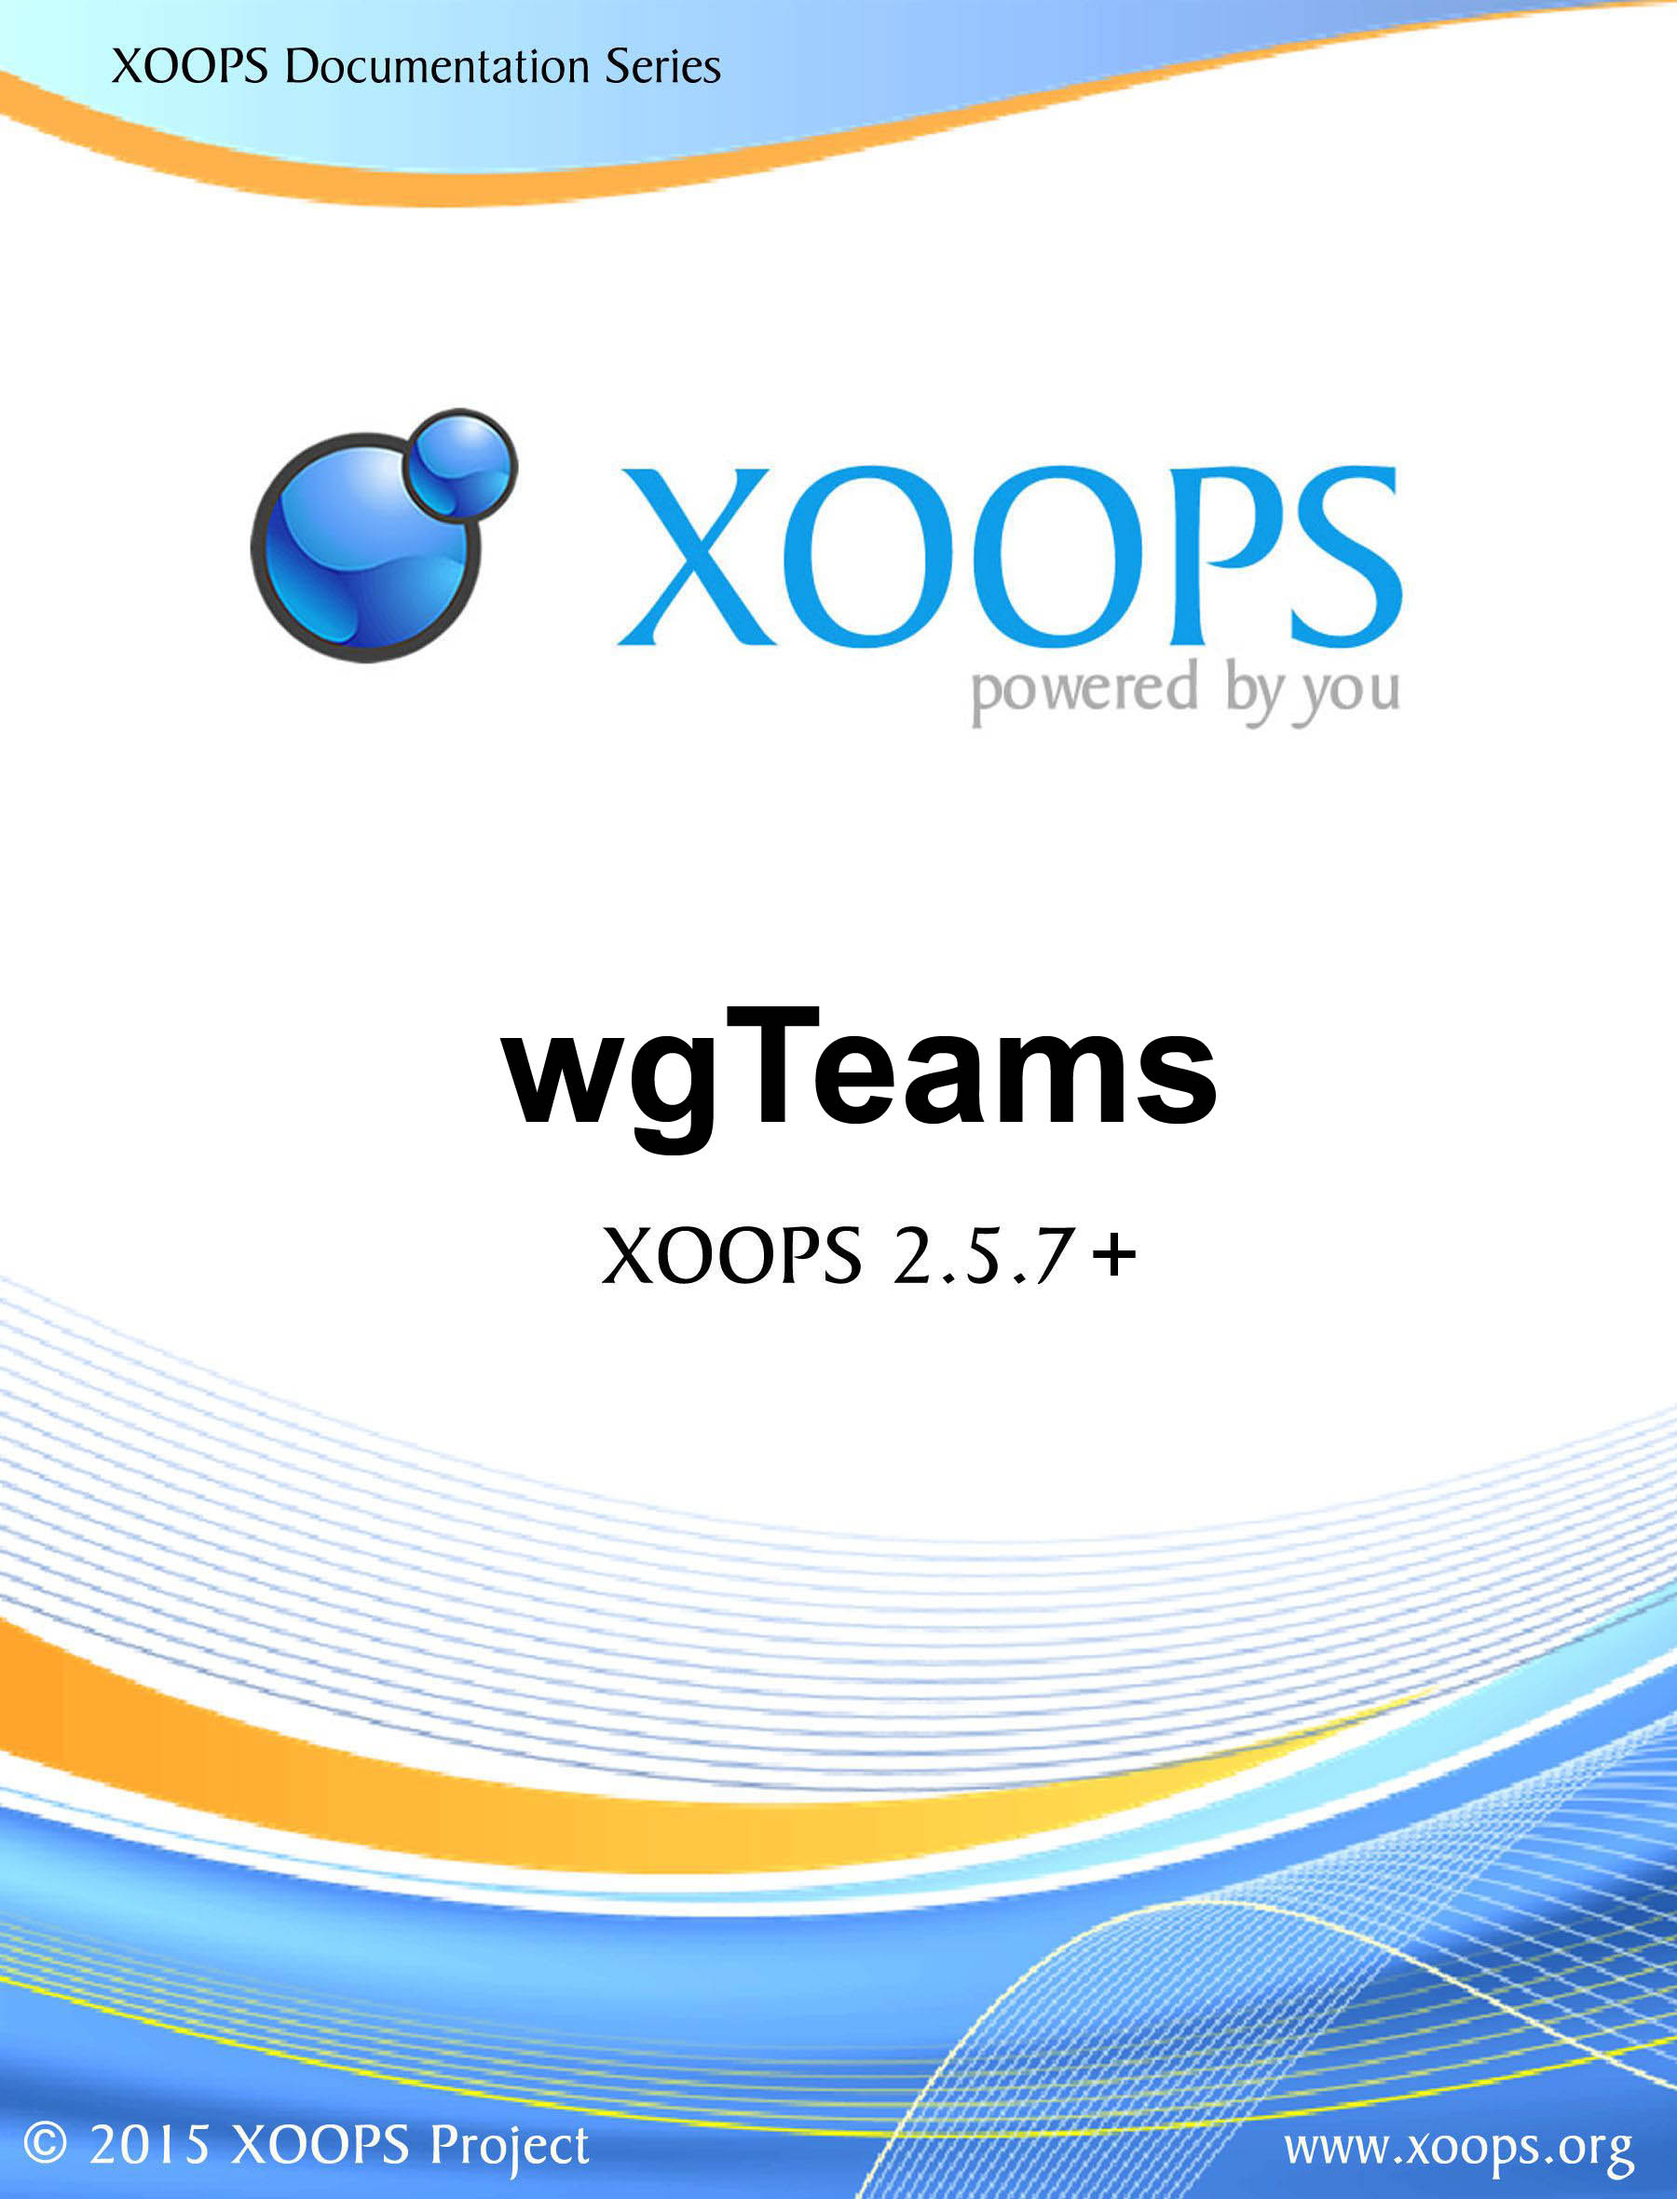
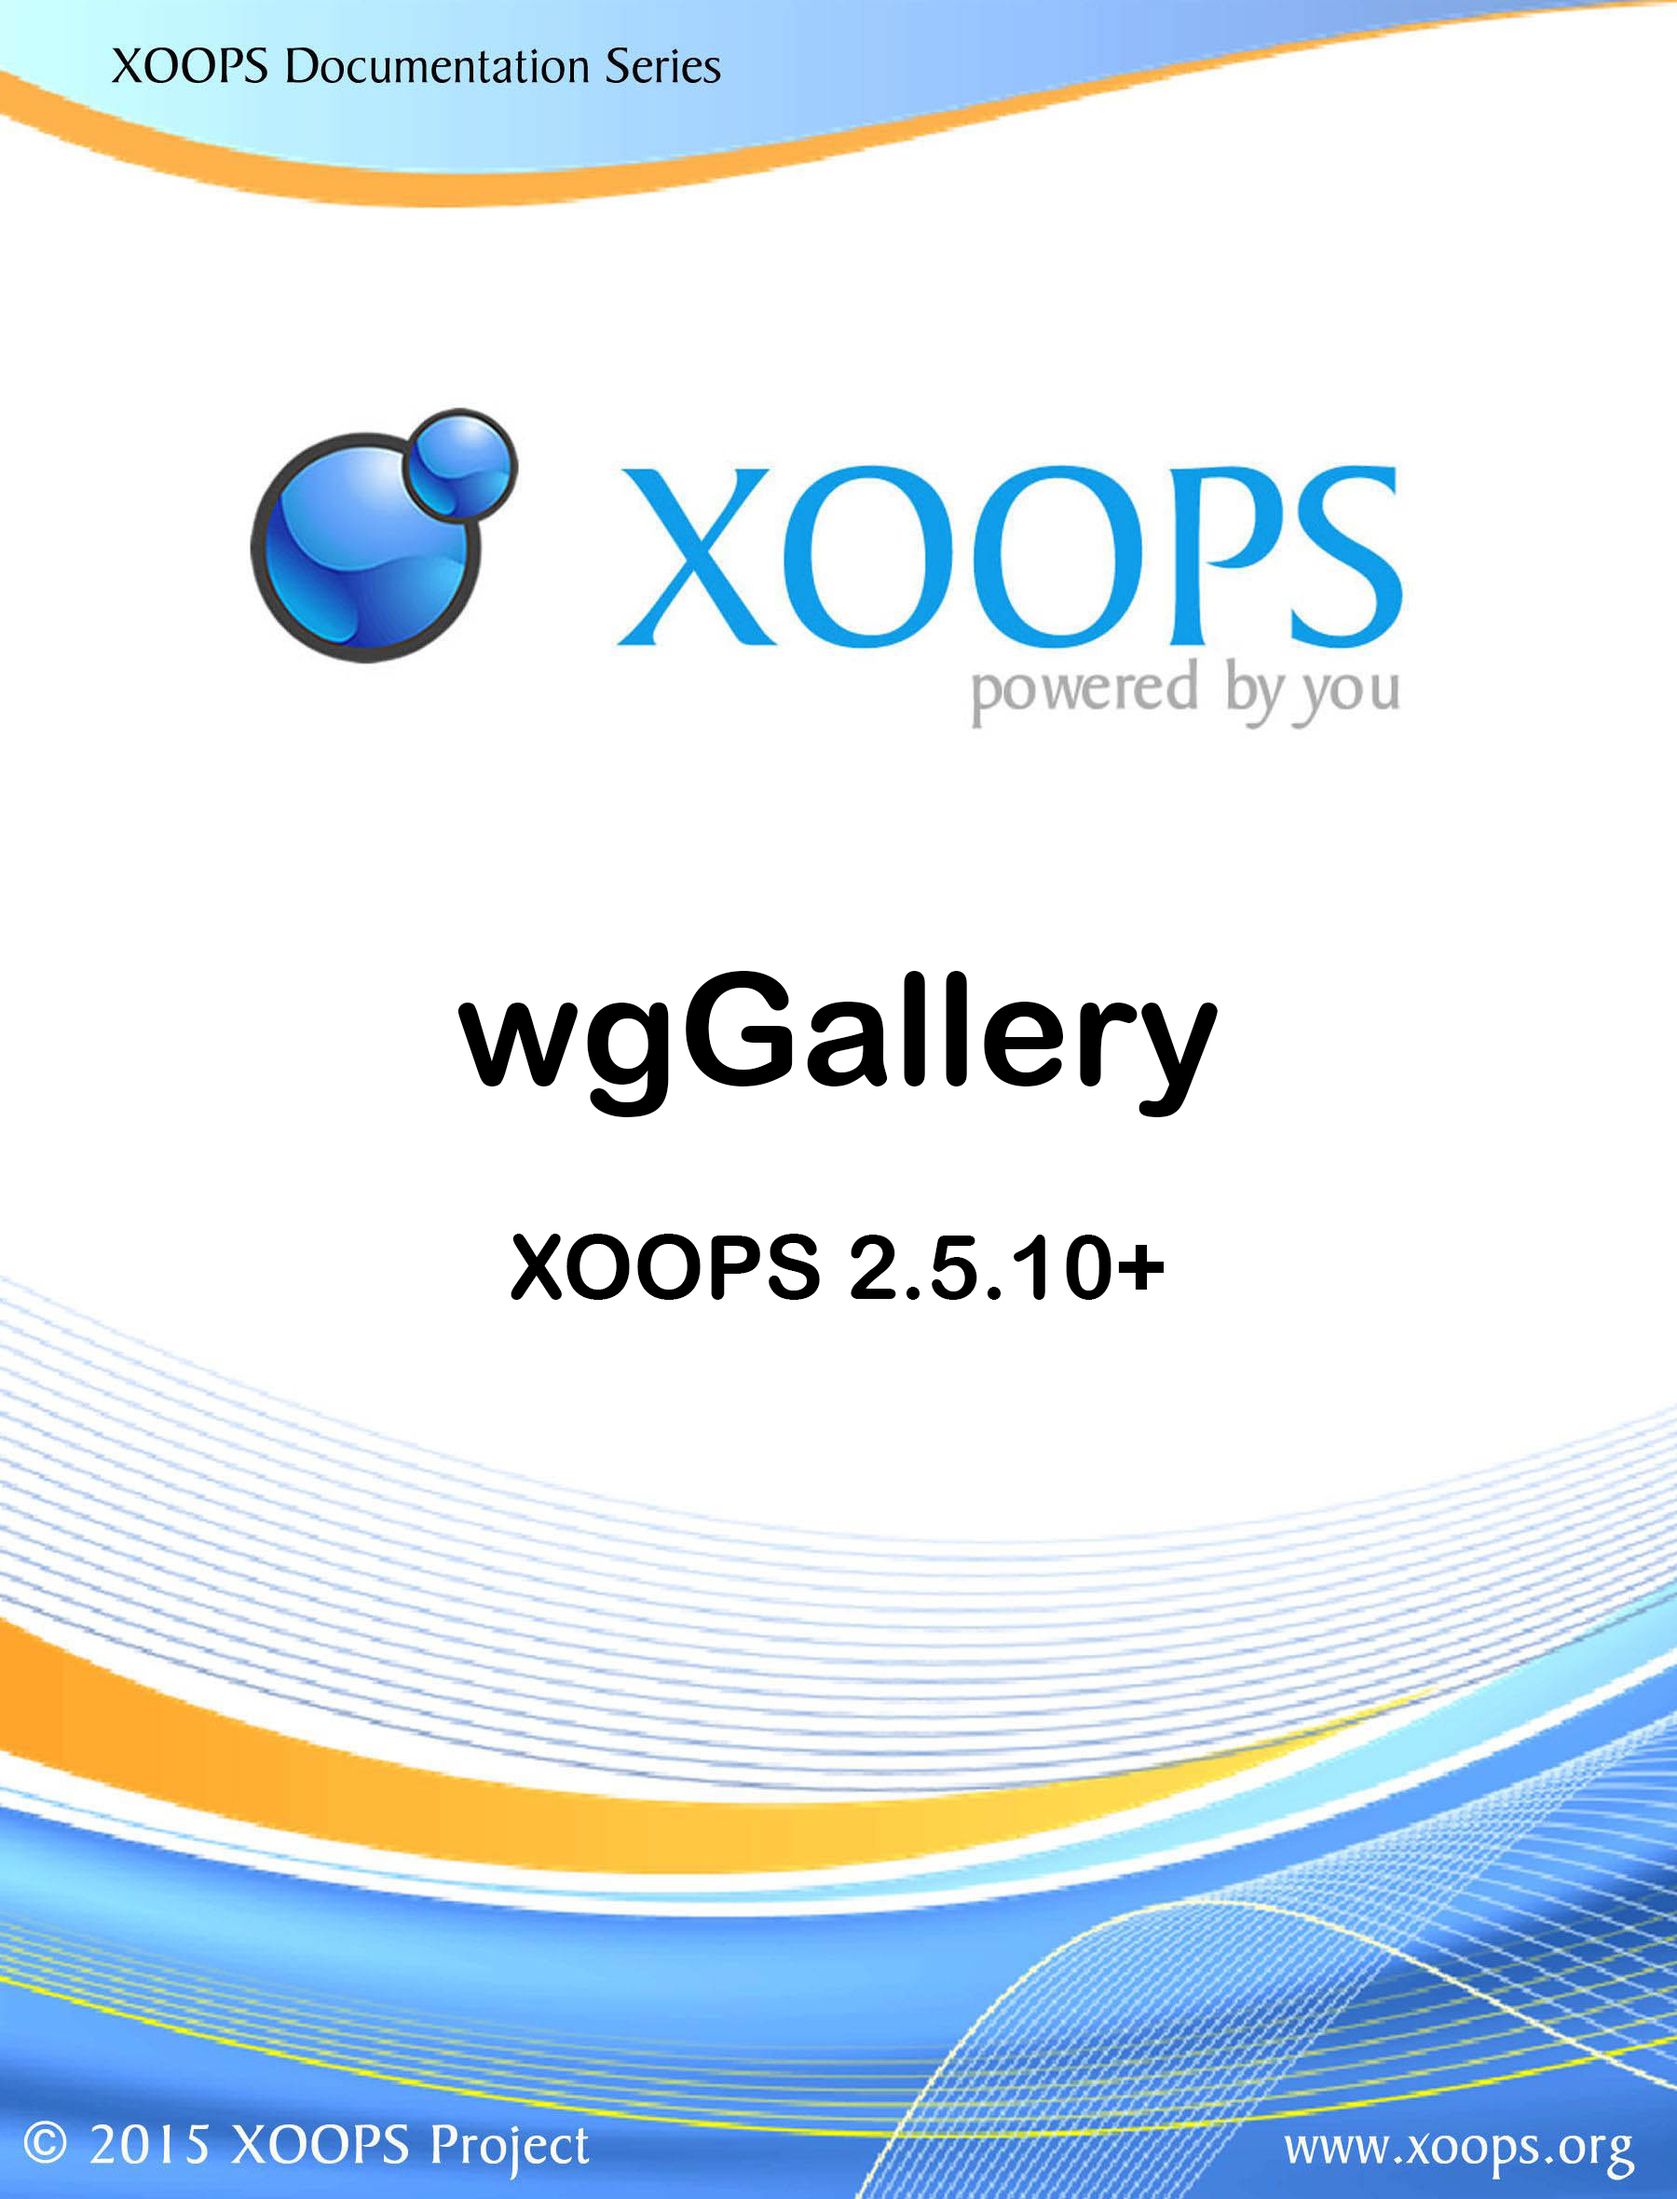
updates

Changed region(s): [[0.28, 0.4331, 0.7467, 0.5258], [0.3111, 0.5568, 0.6844, 0.5877]]

diff --git a/english/templates.md b/english/templates.md
@@ -1,33 +1,64 @@
 # Templates
 
-wgTeams contains following templates
+wgGallery contains following templates
 
 ## 7.1 User templates
 
-* wgteams\_breadcrumbs.tpl
-* wgteams\_footer.tpl
-* wgteams\_header.tpl
-* wgteams\_member\_default.tpl
-* wgteams\_member\_left.tpl
-* wgteams\_member\_right.tpl
-* wgteams\_members\_list.tpl
-* wgteams\_teams.tpl
-* wgteams\_teams\_list.tpl
+* wggallery\_header.tpl
+* wggallery\_index\_default.tpl
+* wggallery\_index\_hovereffectideas.tpl
+* wggallery\_index\_simple.tpl
+* wggallery\_index\_bcards.tpl
+* wggallery\_albums\_default.tpl
+* wggallery\_album\_images.tpl
+* wggallery\_albumitem\_1.tpl
+* wggallery\_albumitem\_2.tpl
+* wggallery\_albumitem\_hovereffectideas.tpl
+* wggallery\_albumitem\_simple.tpl
+* wggallery\_albumitem\_bcards.tpl
+* wggallery\_categoryitem\_1.tpl
+* wggallery\_categoryitem\_2.tpl
+* wggallery\_categoryitem\_hovereffectideas.tpl
+* wggallery\_categoryitem\_simple.tpl
+* wggallery\_categoryitem\_bcards.tpl
+* wggallery\_images\_default.tpl
+* wggallery\_imageitem\_2.tpl
+* wggallery\_images\_manage.tpl
+* wggallery\_gallery\_jssor.tpl
+* wggallery\_gallery\_jssor_arrows.tpl
+* wggallery\_gallery\_jssor_bullets.tpl
+* wggallery\_gallery\_jssor_thumbnails.tpl
+* wggallery\_gallery\_jssor_loadings.tpl
+* wggallery\_gallery\_viewerjs.tpl
+* wggallery\_gallery\_blueimpgallery.tpl
+* wggallery\_gallery\_justifiedgallery.tpl
+* wggallery\_gallery\_lightbox2.tpl
+* wggallery\_gallery\_lclightboxlite.tpl
+* wggallery\_breadcrumbs.tpl
+* wggallery\_rating\_img.tpl
+* wggallery\_rss.tpl
+* wggallery\_search.tpl
+* wggallery\_trigger\_uploads.tpl
+* wggallery\_upload.tpl
+* wggallery\_footer.tpl
 
 ## 7.2 Block templates
 
-* wgteams\_block\_teams.tpl
-* wgteams\_block\_teamsmembers.tpl
+* wggallery\_block\_albums\_default.tpl
+* wggallery\_block\_images\_default.tpl
 
 ## 7.3 Admin templates
 
-* wgteams\_admin\_about.tpl
-* wgteams\_admin\_footer.tpl
-* wgteams\_admin\_header.tpl
-* wgteams\_admin\_index.tpl
-* wgteams\_admin\_infofields.tpl
-* wgteams\_admin\_labels.tpl
-* wgteams\_admin\_members.tpl
-* wgteams\_admin\_relations.tpl
-* wgteams\_admin\_teams.tpl
-
+* wggallery\_admin\_about.tpl
+* wggallery\_admin\_header.tpl
+* wggallery\_admin\_index.tpl
+* wggallery\_admin\_albums.tpl
+* wggallery\_admin\_images.tpl
+* wggallery\_admin\_gallerytypes.tpl
+* wggallery\_admin\_albumtypes.tpl
+* wggallery\_admin\_watermarks.tpl
+* wggallery\_admin\_maintenance.tpl
+* wggallery\_admin\_permissions.tpl
+* wggallery\_admin\_import.tpl
+* wggallery\_admin\_footer.tpl
+* wggallery\_admin\_categories.tpl

diff --git a/english/README.md b/english/README.md
@@ -1,6 +1,11 @@
 # ENGLISH
+## wgGallery Tutorial
 
-![logoModule.png](.gitbook/assets/logomodule.png)
+![logoModule.png](.gitbook/assets/logoModule.png)
+
+#### Version: 1.14 RC1
+#### for XOOPS 2.5.10+
+#### for PHP 7.0 +
 
 ## User Manual
 
@@ -8,15 +13,16 @@
 
 ## Module Purpose
 
-This module is for presentation of your team\(s\).
+This module is for presentation of your images in a gallery.
 
-You can defined various teams and people. After that you can link each person to one or more teams. The default information of a person will be used for all teams. You can define additional information fields, which will be used for a team/member combination, e.g. skills for this team, postion in the team, and so on.
+You can defined various albums and combine different albums to a collection.
+This module supports:
 
 All used templates on user side are fully responsive.
 
 **This module works only in combination with a bootstrap theme or you have to include bootstrap files manually to your theme.**
 
-_Figure 1: Main view of the wgTeams Module \(Admin side\)_
+_Figure 1: Main view of the wgGallery Module \(Admin side\)_
 
 ![0dashboard1.png](.gitbook/assets/0dashboard.png)
 
@@ -27,3 +33,4 @@ Unless specified, this content is licensed under a [Creative Commons Attribution
 
 All derivative works are to be attributed to XOOPS Project \(www.xoops.org\)
 
+##Tutorial Version: 1.0

diff --git a/english/the-user-side.md b/english/the-user-side.md
@@ -1,27 +1,11 @@
 # The User Side
 
-For the users there is no action required on user side.
-
-Depending on your settings/preferences you can present your teams in various ways.
-
-## 5.1 Possibilities for presentation
-
-You can show your team\(s\)
-
-* via the index page 
-* or with a block \(see also [Blocks](blocks.md)\)
-
-## 5.2 Possible presentation styles
-
-**Example 1:** Picture on the left side, information area with borders, picture with round corners
-
+On user side you get an overview from all albums and collection, which are online currently.
 ![](.gitbook/assets/5userside_1.png)
 
-**Example 2:** Picture on the top, information area striped, picture shaped as circle
-
-![](.gitbook/assets/5userside_2.png)
-
-**Example 3:** Picture on the right side, information area lined, picture in thumbs style
-
-![](.gitbook/assets/5userside_3.png)
+Depending on the permissions of current user the user have additionally following possibilities:
+album management \(see also [album managements](album_management.md)\)
+create albums \(see also [create albums](album_create.md)\)
+upload images \(see also [upload images](upload_images.md)\)
+search albumms or images \(see also [search](search.md)\)
 

diff --git a/english/SUMMARY.md b/english/SUMMARY.md
@@ -1,7 +1,6 @@
 # Table of contents
 * [Introduction](README.md)
 * [ENGLISH](README.md)
-	* [Introduction](introduction.md)
 	* [Install/Uninstall](install-uninstall.md)
 	* [Administration Menu](administration-menu/README.md)
 		* [Infofields](administration-menu/infofields.md)
@@ -19,7 +18,6 @@
 	* [About XOOPS CMS](about-xoops-cms.md)
 * [DEUTSCH](deutsch/README.md)
 	* [Inhaltsverzeichnis](deutsch/inhaltsverzeichnis.md)
-	* [Einleitung](deutsch/einleitung.md)
 	* [\(De-\)Installation](deutsch/de-installation.md)
 	* [Administrationsbereich](deutsch/administrationsbereich/README.md)
 		* [Infofelder](deutsch/administrationsbereich/infofelder.md)

diff --git a/english/blocks.md b/english/blocks.md
@@ -1,7 +1,9 @@
 # Blocks
 
-wgTeams offers various blocks:
+wgGallery offers various blocks:
 
-* Team/Members block: Show all Teams with related members in block
-* Block Teams: Show a list of the teams
+* Block albums: 
+Show a defined number of albums in a block. It is possible to select recent or random albums. Depending on the settings in album types the display will change.
 
+* Block images: 
+Show a defined number of images in a block. It is possible to select recent or random albums. 

diff --git a/english/operating-instructions.md b/english/operating-instructions.md
@@ -1,9 +1,7 @@
 # Operating Instructions
 
-For presenting a team do following:
+For presenting an album with images do following:
 
-* [Create a team](administration-menu/teams.md)
-* [Add your members](administration-menu/members.md)
-* [Add your additional infofields](administration-menu/infofields.md)
-* [Define the relations between teams and members](administration-menu/relations.md)
+* [Create an album](album_create.md.md)
+* [Upload images](upload_images.md)
 

diff --git a/english/install-and-uninstall.md b/english/install-and-uninstall.md
@@ -4,7 +4,7 @@ No special measures necessary, follow the standard installation process – extr
 
 ## 1.1 Install
 
-* Extract folder 'wgteams' in your module directory
+* Extract folder 'wggallery' in your module directory
 * Log in as admin and goto admin area
 * Install the module through Admin -&gt; Modules -&gt; Install Modules
 

diff --git a/SUMMARY.md b/SUMMARY.md
@@ -2,7 +2,6 @@
 
 * [wgGallery Tutorial](README.md)
 * [English](english/README.md)
-  * [Introduction](introduction.md)
   * [Install and uninstall](english/install-and-uninstall.md)
   * [Install/Uninstall](install-uninstall.md)
   * [Administration Menu](administration-menu/README.md)

diff --git a/README.md b/README.md
@@ -1,10 +1,10 @@
 # wgGallery Tutorial
 
-![logoModule.png](.gitbook/assets/logomodule.png)
+![logoModule.png](.gitbook/assets/logoModule.png)
 
 #### Version: 1.14 RC1
-#### für XOOPS 2.5.10+
-#### für PHP 7.0 +
+#### for XOOPS 2.5.10+
+#### for PHP 7.0 +
 
 ## User Manual
 
